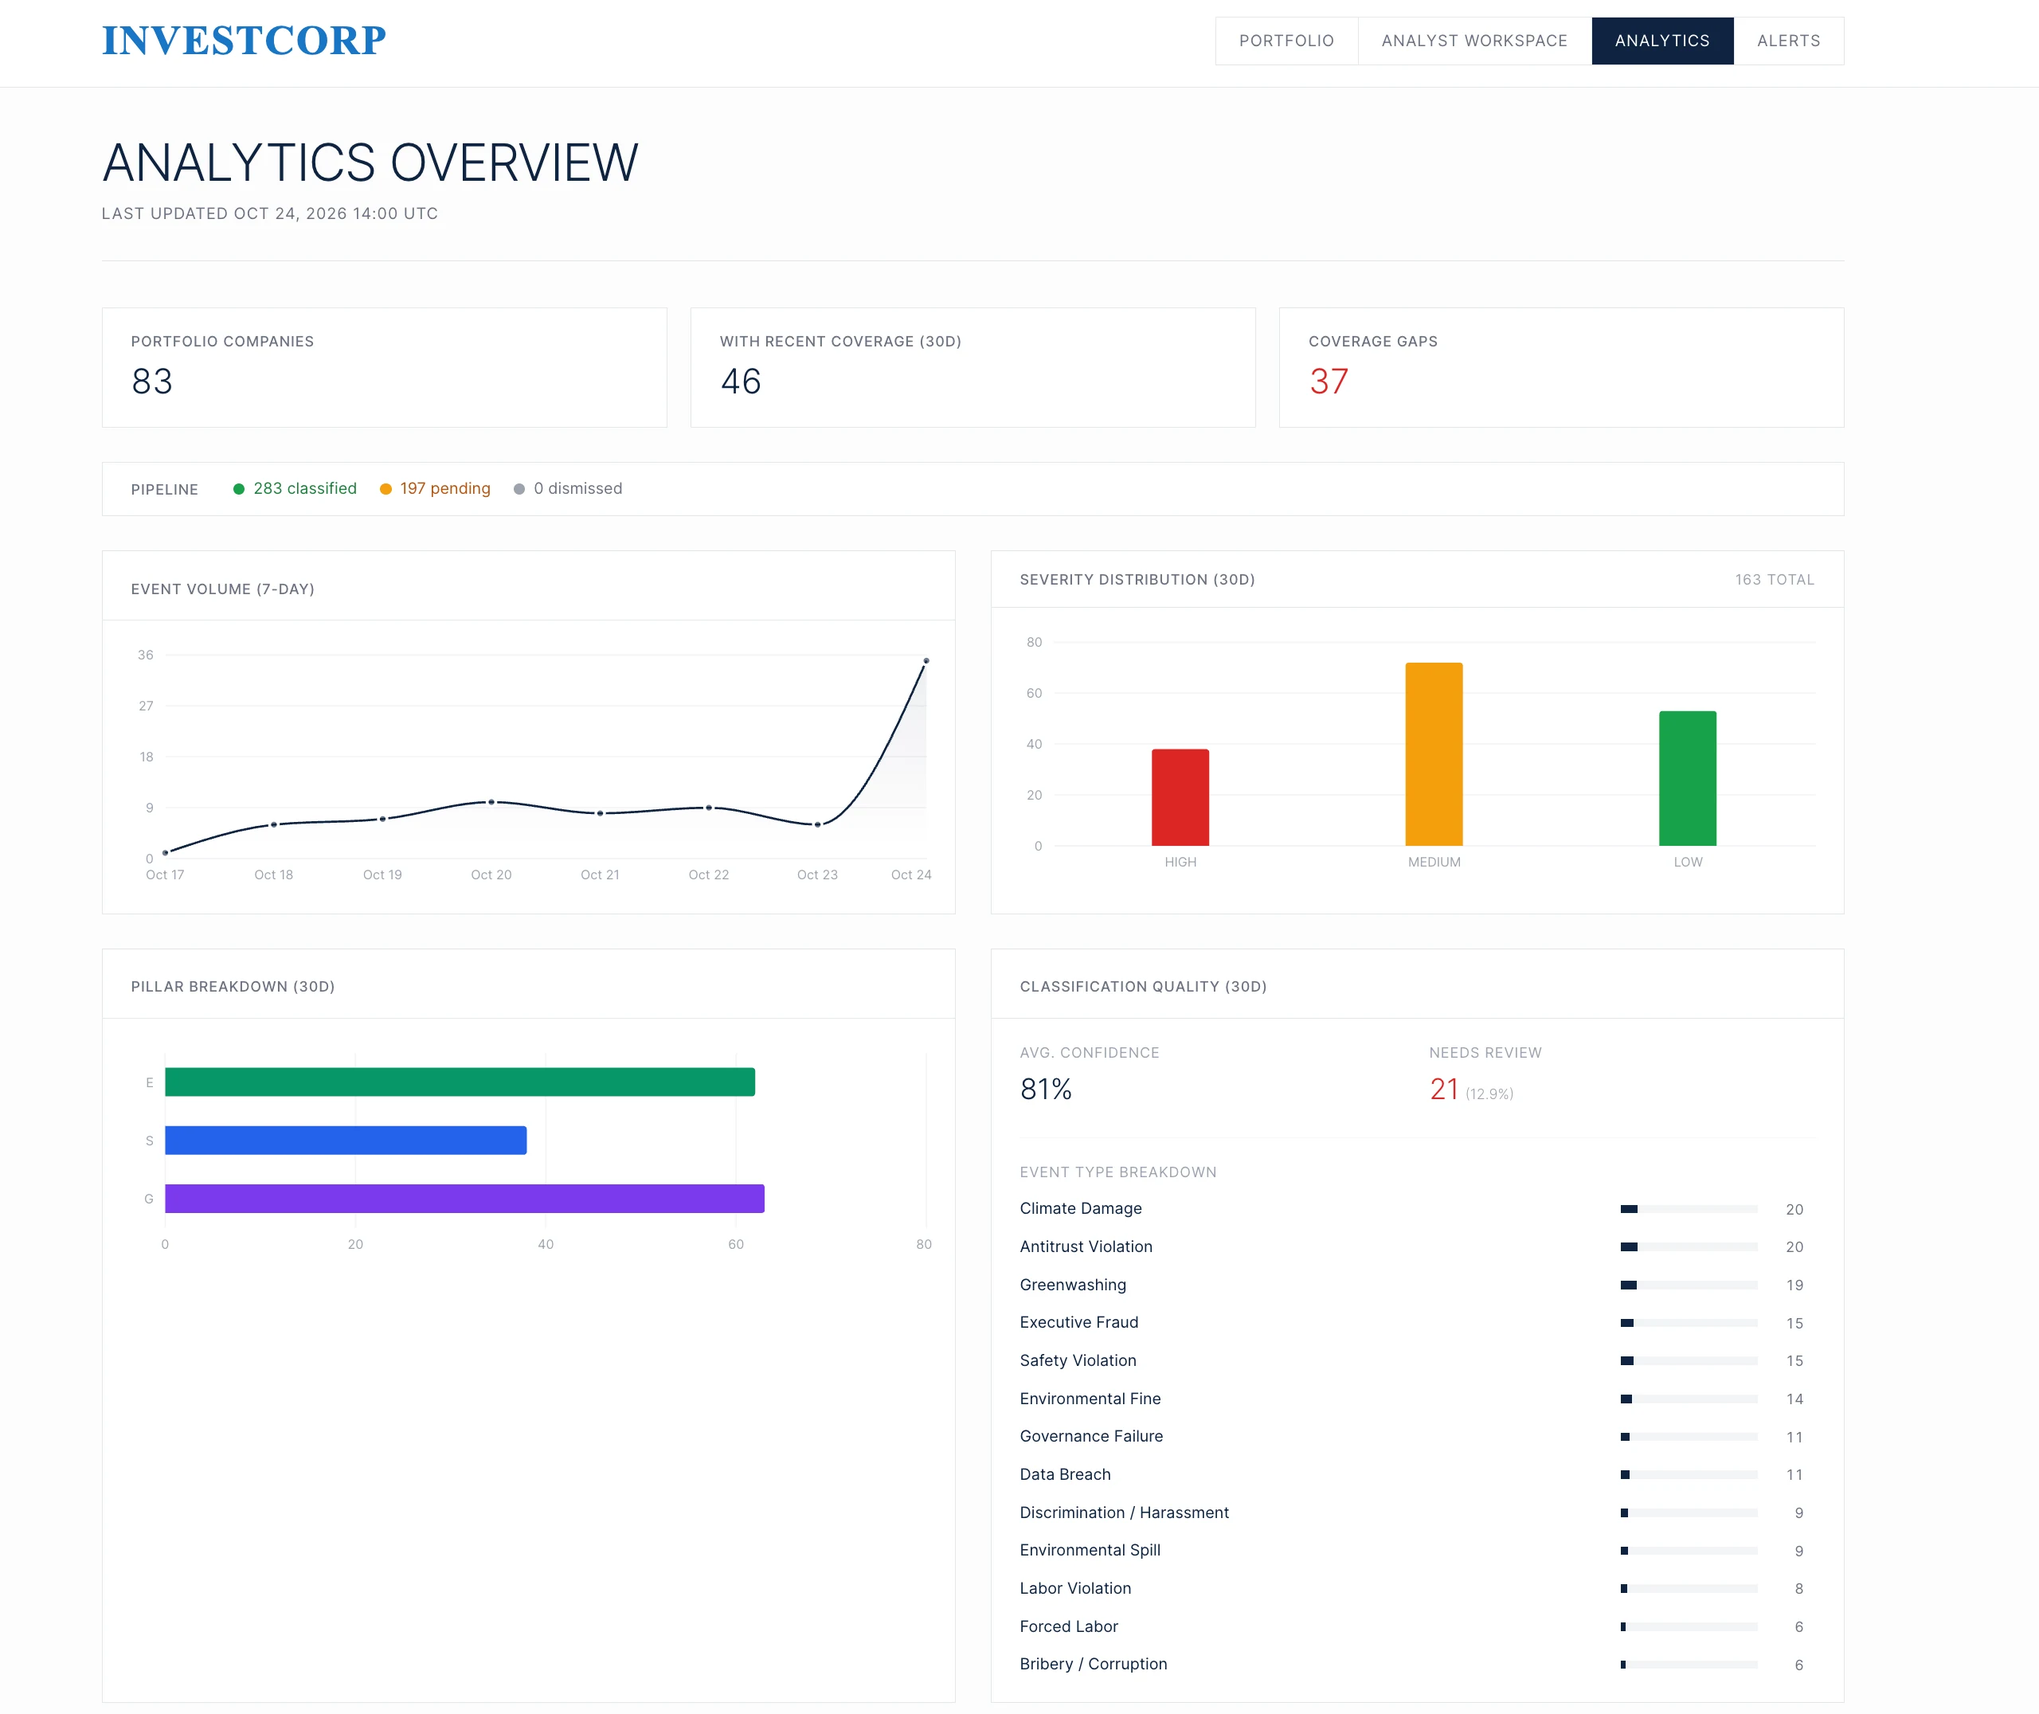
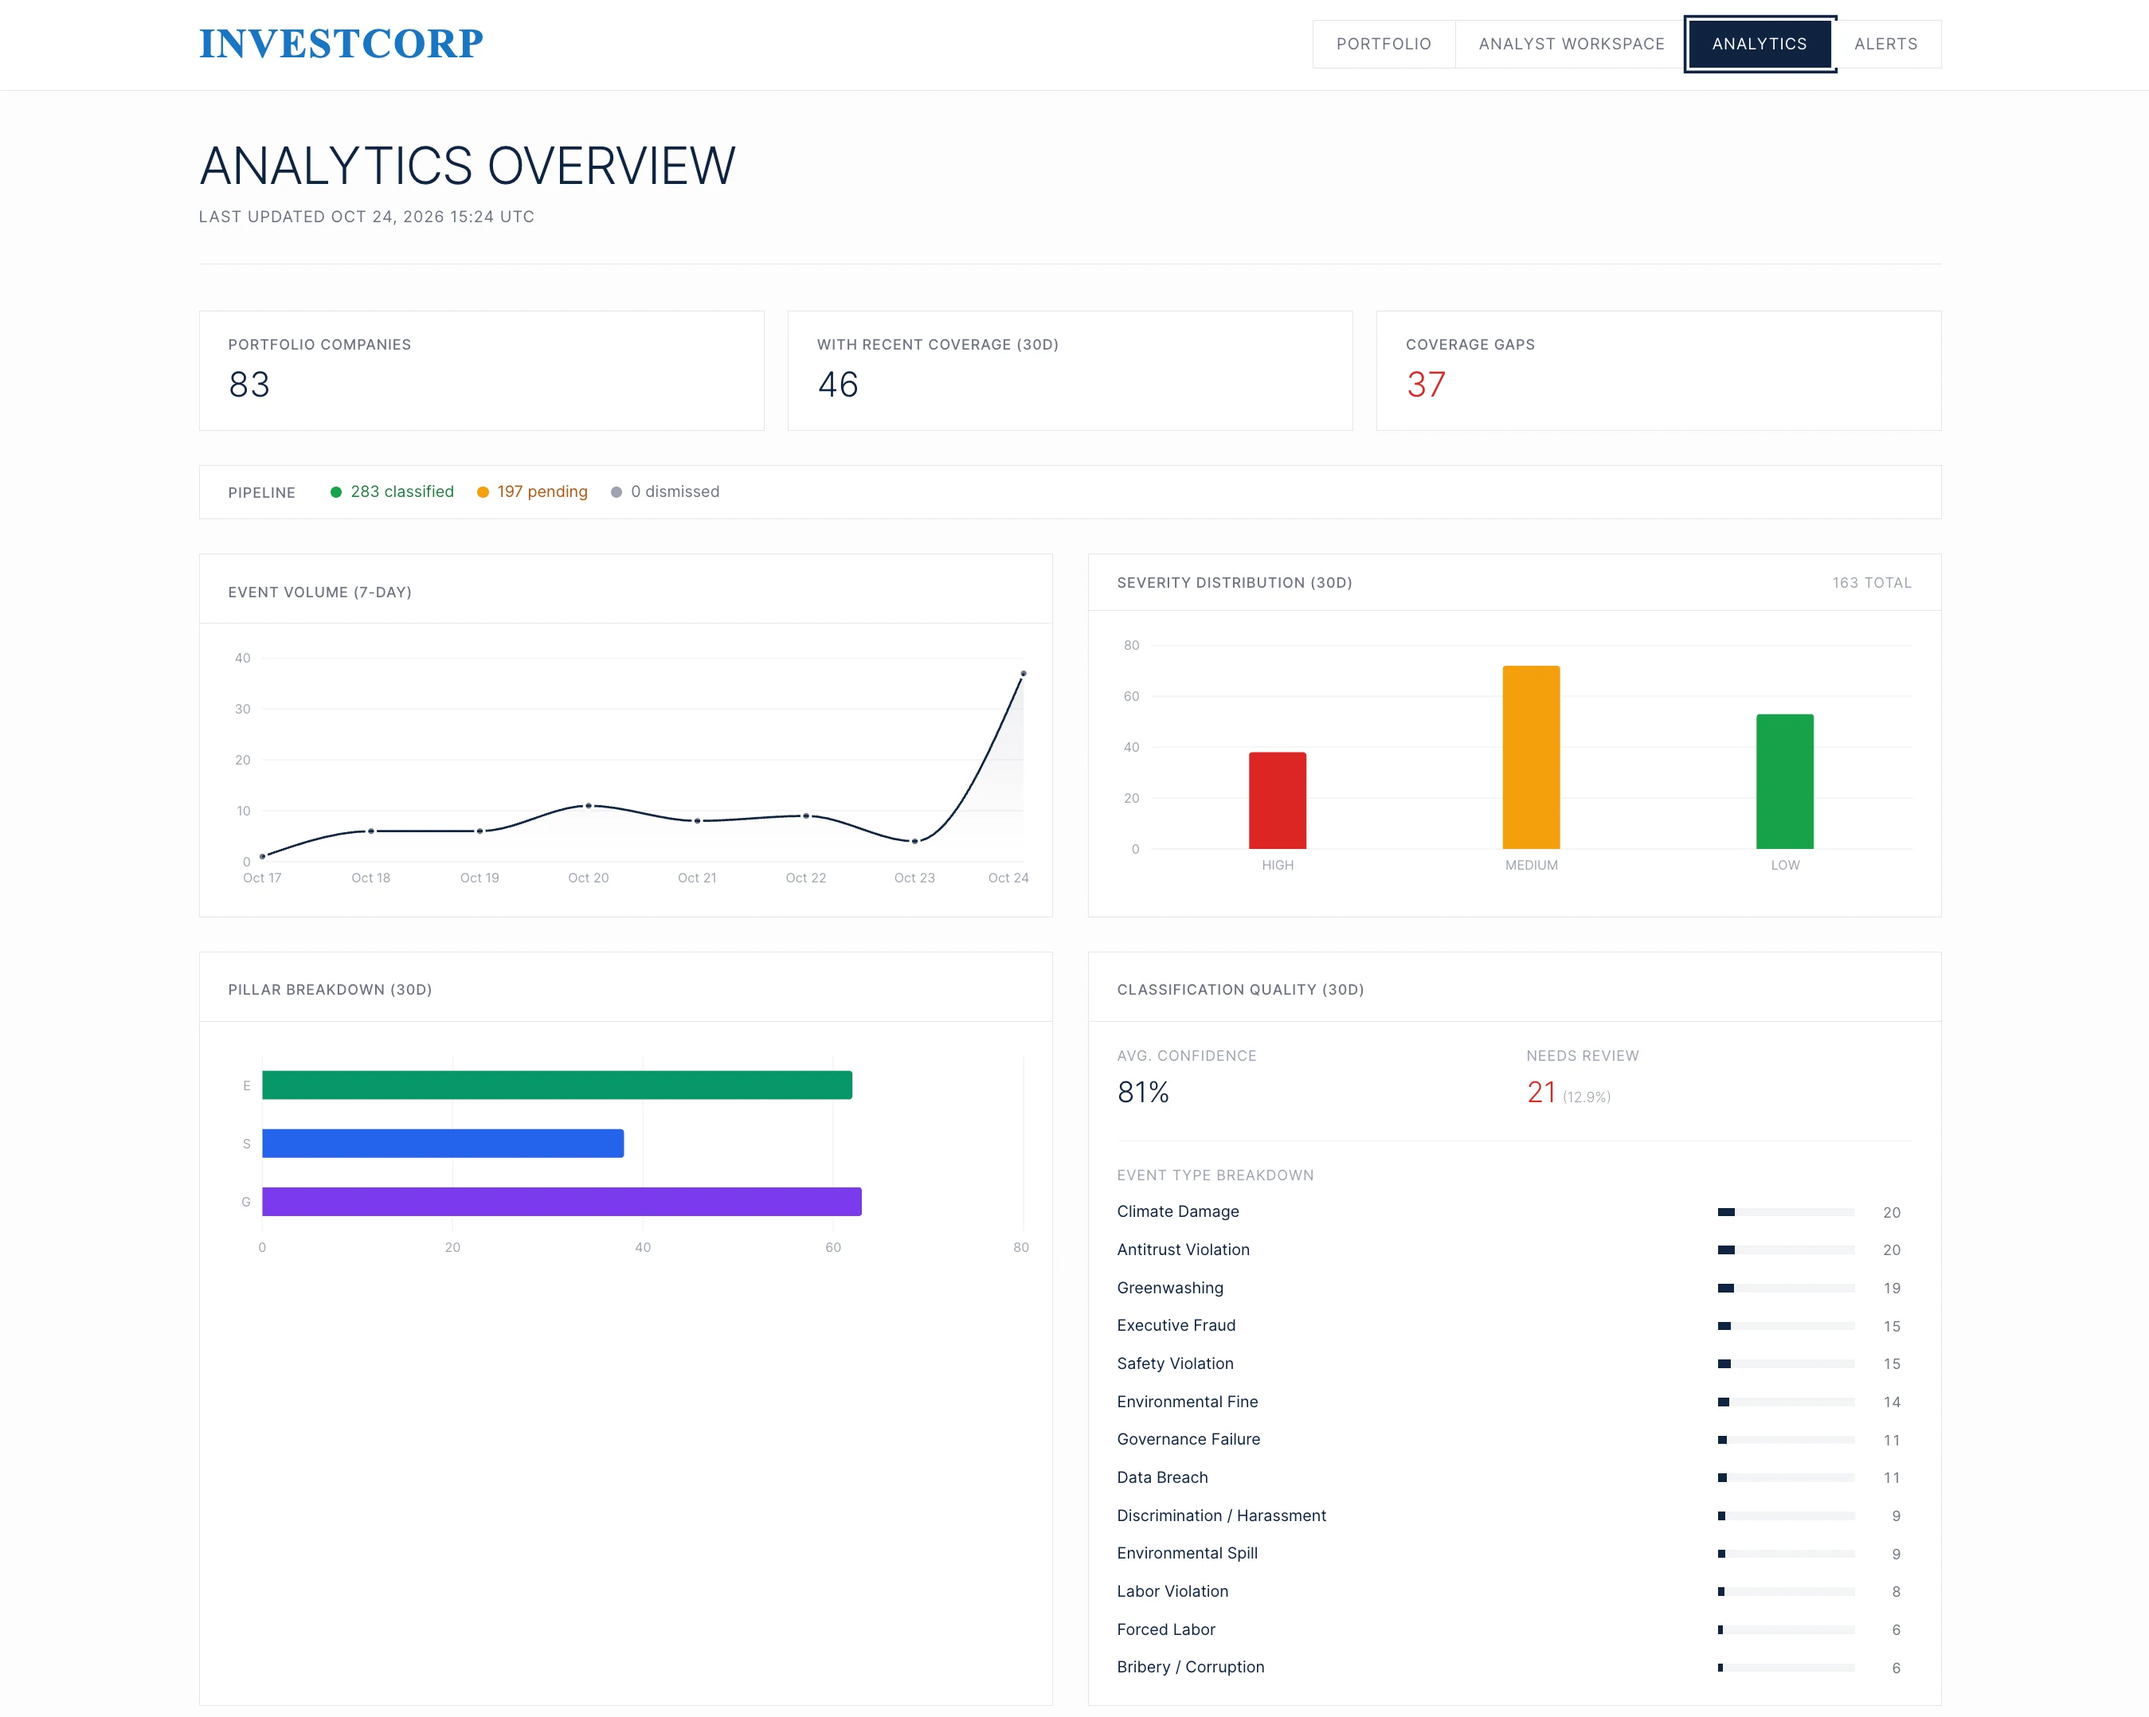
Investcorp post: unblurred sample-data screenshots and the portfolio view

diff --git a/src/lib/work.ts b/src/lib/work.ts
@@ -75,9 +75,11 @@ export const POSTS: Post[] = [
             "That memory is what makes it more than a news alert. If a company shows up with three medium-tier events in a month, none of which would raise an eyebrow alone, the pattern can push it up a tier. We also designed a way for the credit team to correct the classifier when it gets one wrong, so it improves on their judgement rather than ours.",
             { h: "What it looks like now" },
             "The pilot grew into a product the credit team uses. The analyst workspace ranks every company in the portfolio by how quickly its ESG picture is getting worse. Each row shows how fast events are arriving, whether things are escalating or settling down, the worst severity so far and an overall score. Click a company and you get its timeline of events, its exposure across environmental, social and governance issues, and how its risk has moved over the last few months.",
-            { figure: "/work/investcorp/workspace.webp", alt: "The analyst workspace: a table of portfolio companies ranked by ESG deterioration, with velocity, trend, event count, peak severity and score, and below it an event timeline, ESG exposure and risk trajectory for the selected company.", caption: "The analyst workspace. Company names and headlines are blurred.", plate: true },
+            { figure: "/work/investcorp/workspace.webp", alt: "The analyst workspace: a table of portfolio companies ranked by ESG deterioration, with velocity, trend, event count, peak severity and score, and below it an event timeline, ESG exposure and risk trajectory for the selected company.", caption: "The analyst workspace, shown with sample data.", plate: true },
             "A second page keeps an eye on the system itself. It shows how many events are classified and how many are waiting, which companies have had no news coverage lately (private companies can go quiet for weeks, and silence isn't the same as safety), how events split across severity and pillar, and how confident the classifier is. Anything it isn't sure about lands in a review queue for a person to check.",
-            { figure: "/work/investcorp/analytics.webp", alt: "The analytics overview: portfolio companies, recent coverage and coverage gaps; pipeline status; event volume over seven days; severity distribution; pillar breakdown; classification confidence and event type breakdown.", caption: "The analytics overview: coverage, pipeline health and how well the classifier is doing.", plate: true },
+            { figure: "/work/investcorp/analytics.webp", alt: "The analytics overview: portfolio companies, recent coverage and coverage gaps; pipeline status; event volume over seven days; severity distribution; pillar breakdown; classification confidence and event type breakdown.", caption: "The analytics overview: coverage, pipeline health and how well the classifier is doing. Sample data.", plate: true },
+            "Underneath both sits the portfolio itself: every company tracked across the CLO funds, with its sector, how much Investcorp has lent it, which funds hold the loan, whether it's close to breaching a covenant, and when it last showed up in the news. It's where an analyst starts when a name comes up in a meeting.",
+            { figure: "/work/investcorp/portfolio.webp", alt: "The portfolio companies table: company, sector, exposure in millions of dollars, CLO funds, covenant status (clear, near threshold, flagged) and days since the last event, with materiality and industry filters and CSV export.", caption: "The portfolio view: exposure, funds, covenant status and the latest event for each company. Sample data.", plate: true },
             "Over spring break the team split into six workstreams (requirements, architecture, the materiality framework, news sources, prior art, and the feedback loop) so we came back with a fully scoped first version instead of a pile of open questions. Everything runs through Investcorp's own Azure OpenAI deployment. Their portfolio data never leaves their cloud, and we were fine with that.",
             { h: "Pilot two: the treasury inbox" },
             "Every week Investcorp's treasury team emails a list of banks asking for indicative rates. The answers trickle back into a shared inbox: some in the body of the email, some in attachments, some late, some never. Making sense of it meant reading every reply by hand.",
